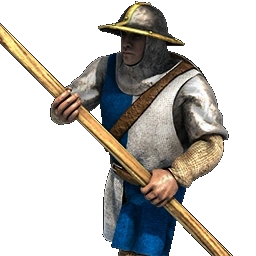
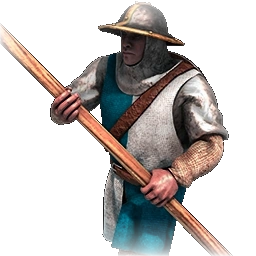
Finish retheme design

diff --git a/style.css b/style.css
@@ -1,7 +1,7 @@
 :root {
   --site-color-01: #001c30;
   --site-color-02: #EFD1A9;
-  --site-color-03: #176B87;
+  --site-color-03: #65202B;
   --site-color-04: #291E0A;
   font-size: 62.5%;
 }
@@ -19,6 +19,7 @@ h1 {
 h3 {
   font-size: 2rem;
 }
+
 body {
   background-image: url('img/grass.png');
   background-size: 100% 100%;
@@ -31,12 +32,13 @@ body {
 }
 
 .header {
-  color: #65202B;
+  color: var(--site);
   margin: 20px 0px;
-  height: 100px;;
+  height: 100px;
+  ;
   background-color: var(--site-color-02);
   background-image: url("img/scroll.png");
-  background-size:100% 100%;
+  background-size: 100% 100%;
   font-weight: bold;
   font-size: 3.2rem;
   display: flex;
@@ -50,6 +52,9 @@ body {
   font-size: 2.4rem;
   display: flex;
   justify-content: space-between;
+  color: var(--site-color-02);
+  text-shadow: 1px 1px black;
+  font-weight: bold;
 }
 
 
@@ -62,6 +67,10 @@ body {
 .hearts {
   display: flex;
   gap: 10px;
+}
+
+.hearts>img {
+  filter: drop-shadow(1px 1px 1px black);
 }
 
 .game-screen {
@@ -81,14 +90,17 @@ body {
   width: 30%;
 }
 
-.player-selection > img {
+.player-selection>img {
   transform: rotateY(180deg);
-  }
+}
 
 
 .game-text {
   width: 40%;
-  font-size: 3.2rem;
+  font-size: 4rem;
+  font-weight: bold;
+  color: var(--site-color-02);
+  text-shadow: 2px 2px black;
   display: flex;
   justify-content: center;
   align-items: center;
@@ -112,16 +124,17 @@ body {
   background-size: cover;
   background-repeat: no-repeat;
   transition: ease-in-out 75ms;
+  box-shadow: 1px 1px 15px 1px black;
 }
 
-.weapon-button > img {
-  height: 100%;
+.weapon-button>img {
+  height: 90%;
   transform: rotateY(180deg);
 }
 
 .weapon-button:hover {
   cursor: pointer;
-  box-shadow: 1px 1px 20px 2px var(--site-color-04);
+  box-shadow: 1px 1px 20px 2px gold;
   scale: 1.05;
 }
 
@@ -129,4 +142,3 @@ body {
   margin-top: 50px;
   text-align: center;
 }
-

diff --git a/index.html b/index.html
@@ -19,11 +19,11 @@
             <!-- Health bars -->
             <div class="health-bars">
                 <div class="player-health">
-                    <h3>PLAYER</h3>
+                    PLAYER
                     <div class="hearts"></div>
                 </div>
                 <div class="computer-health">
-                    <h3>COMPUTER</h3>
+                    COMPUTER
                     <div class="hearts"></div>
                 </div>
             </div>
